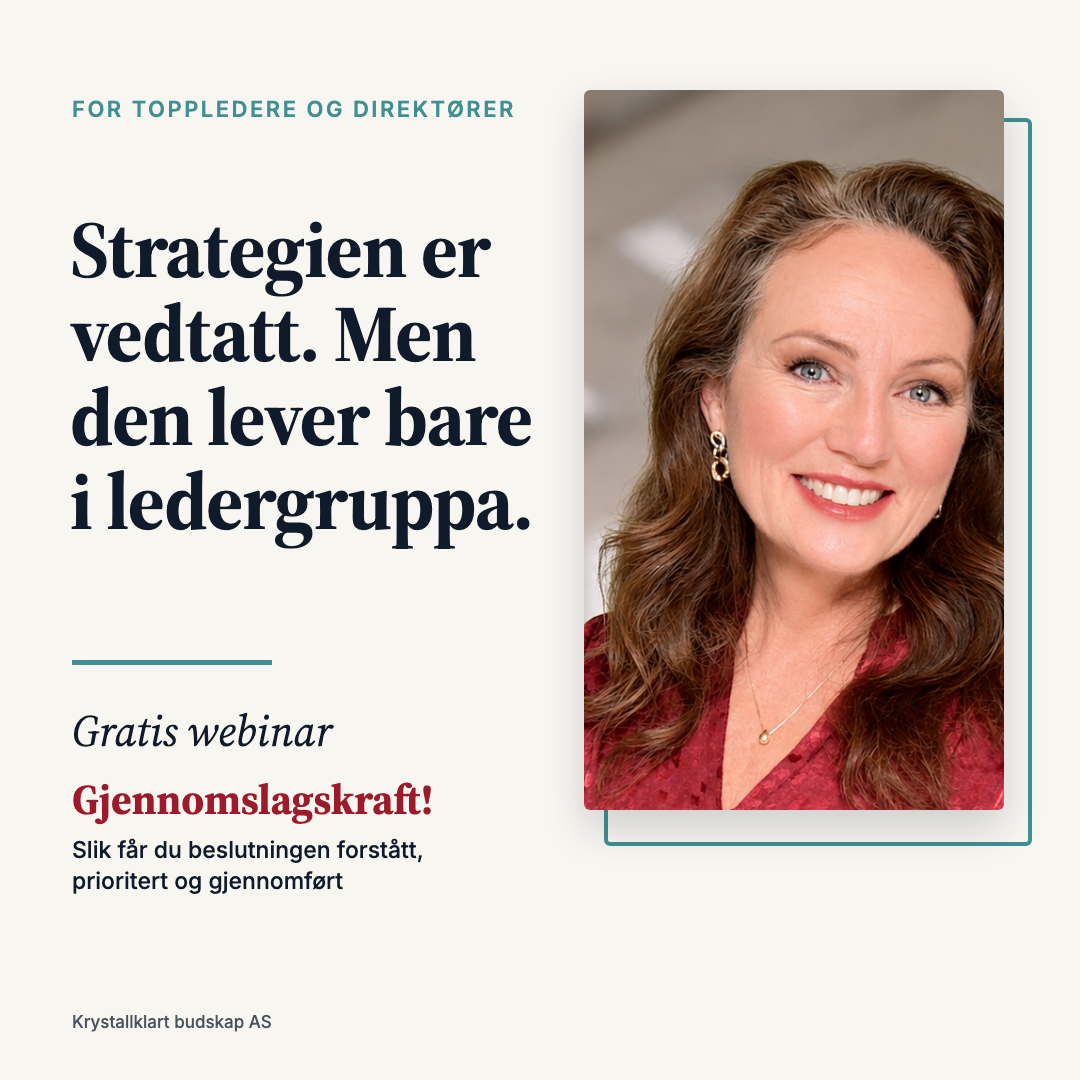
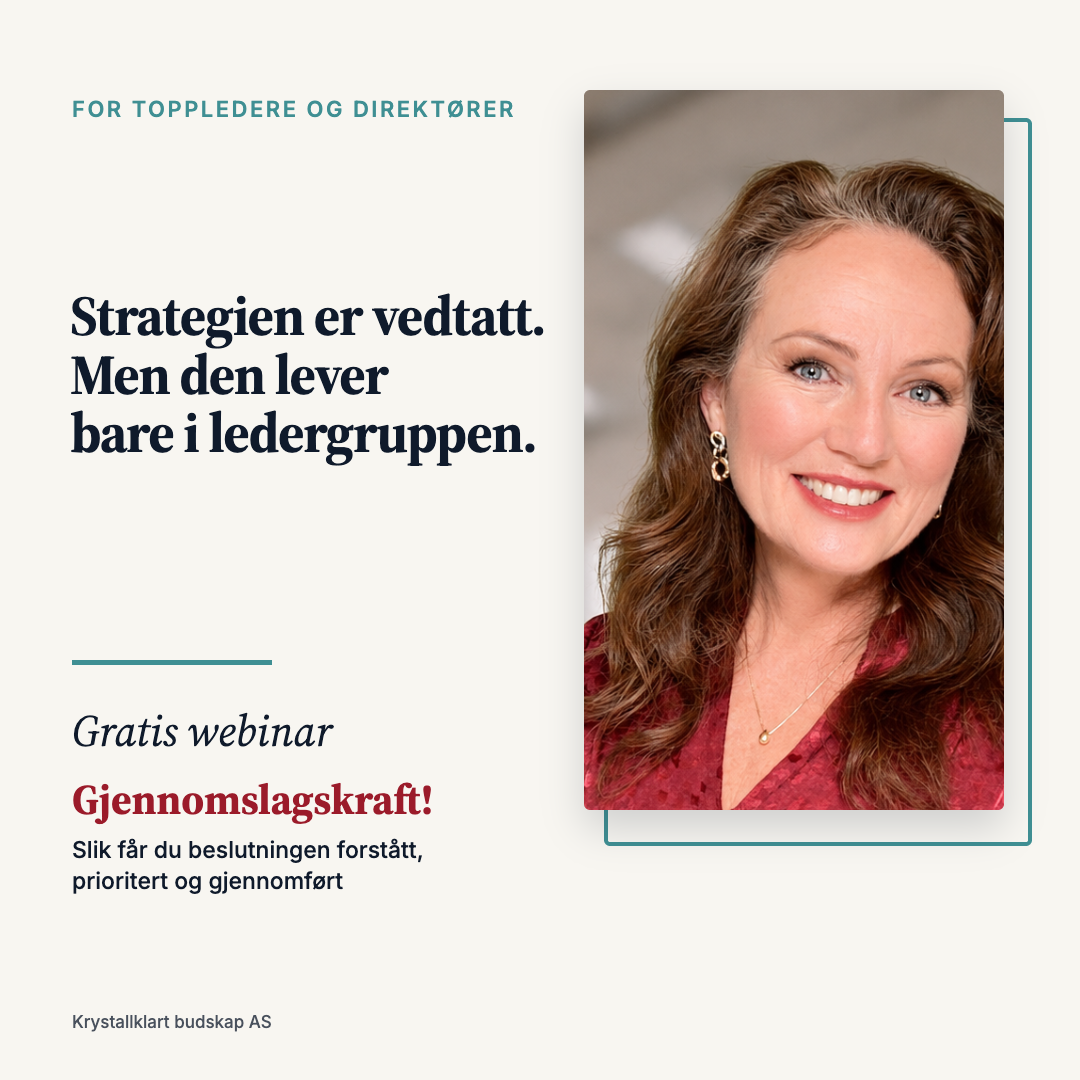
feat: apply Anne Karin feedback, Teams dialogue video, time angle and next-round targets

Changed region(s): [[0.0611, 0.1833, 0.4889, 0.5194]]

diff --git a/index.html b/index.html
@@ -28,7 +28,7 @@ hr{display:none}
 </style></head><body>
 <header><div class="wrap"><h1>Annonser – lederversjon</h1>
 <p>Anne Karin Nordskag · Gjennomslagskraft. Tekster, annonsebilder og målretting for neste runde, til godkjenning.</p>
-<nav><a href="#performance">Performance</a><a href="#s1">S1 Ledergruppa</a><a href="#s2">S2 Strategi</a><a href="#s3">S3 Gründer</a><a href="#maalretting">Målretting</a></nav></div></header>
+<nav><a href="#performance">Performance</a><a href="#s1">S1 Teams og tid</a><a href="#s2">S2 Strategi</a><a href="#s3">S3 Gründer</a><a href="#maalretting">Målretting</a></nav></div></header>
 <main><div class="wrap"><div class="perf"><h2 id="performance">Ads performance – May and September rounds</h2>
 <p>Source: "Anne Karin Scorecard" (one sheet per live webinar). All amounts in NOK; ad spend is excluding VAT. CPL is cost per lead. Application rate is applications divided by attendees. ROAS is revenue divided by ad spend, the same way the scorecard calculates ROI.</p>
 <h3>Overview</h3>
@@ -329,11 +329,53 @@ hr{display:none}
 <li><strong>Men cost the same as women.</strong> Men were only 21 % of leads, but their cost per lead (37 NOK) was the same as women's. Reaching more men does not have to raise the cost per lead.</li>
 </ul>
 <h3>What this means for the next round</h3>
-<ul>
-<li>Judge the ads by <strong>cost per application</strong>, not cost per lead. September's higher cost per lead paid off in better applicants.</li>
-<li>A reasonable target, based on September: cost per lead 40–55 NOK, application rate above 15 %, and cost per application under 600 NOK.</li>
-<li>The new leader ads build on the September ads (leader audience line, client names, required job title), so this is the strategy most likely to repeat September's results.</li>
-</ul></div><h1>Annonser – lederversjon (neste kampanje)</h1>
+<p><strong>1. Speak to leaders in the first seconds, not at the end.</strong> The cheapest ad ("#video") is a strong format, but its first 45 seconds speak to everyone. Every new ad names the audience in the first line or the first on-screen text ("For ledere med personalansvar…", "For toppledere og direktører…") and uses situations only leaders have: the management team, the board, a strategy that does not reach the organisation, a team that waits for the leader.</p>
+<p><strong>2. A new kind of video: the Teams dialogue (Anne Karin's idea).</strong> A short, slightly humorous Teams meeting where Anne Karin listens calmly to an increasingly frustrated senior leader. He thinks he has three different problems (the management team said no, an employee does not understand him, a key project is not prioritised), and communication turns out to be what they have in common. It replaces the old S1 video, which was too close to earlier ads. We will test a long version (about 90 seconds) against a short one (45–60 seconds).</p>
+<p><strong>3. Time as an angle.</strong> Leaders want more time. The new S1 image ad asks how much of the week goes to explaining things again, and promises shorter explanations and faster decisions. We do not use the term "rhetorical tools"; we say what they give.</p>
+<p><strong>4. Plain, spoken Norwegian.</strong> Anne Karin flagged parts of the last draft as "AI language". The rewrite avoids short dramatic fragments, the "It is not X. It is Y." pattern, and lists of three for effect, and uses <em>ledergruppen</em> throughout.</p>
+<p><strong>5. Judge each ad by leaders in the form, not by cost per lead.</strong> The registration form now asks for job title, and every ad link carries its ad ID (<code>utm_content</code>). That lets us see how many leaders each ad brings in.</p>
+<table>
+<thead>
+<tr>
+<th>Target for the next round</th>
+<th>Target</th>
+<th>Pause or rework if</th>
+</tr>
+</thead>
+<tbody>
+<tr>
+<td>Cost per lead (overall)</td>
+<td><strong>≤ 70 NOK</strong></td>
+<td>above 90 NOK</td>
+</tr>
+<tr>
+<td>Share of leads who choose a leader role in the form (Director/CEO, Entrepreneur/Owner, Middle manager)</td>
+<td><strong>≥ 35 %</strong></td>
+<td>below 25 %</td>
+</tr>
+<tr>
+<td><strong>Cost per leader lead</strong></td>
+<td><strong>≤ 200 NOK</strong></td>
+<td>above 260 NOK</td>
+</tr>
+<tr>
+<td>Cost per senior leader lead (Director/CEO or Entrepreneur/Owner, assumed about half of leaders)</td>
+<td>≤ 400 NOK</td>
+<td>above 520 NOK</td>
+</tr>
+<tr>
+<td>Application rate (applications / attendees)</td>
+<td>≥ 15 %</td>
+<td>below 10 %</td>
+</tr>
+<tr>
+<td>Cost per application</td>
+<td>≤ 800 NOK</td>
+<td>above 1 200 NOK</td>
+</tr>
+</tbody>
+</table>
+<p>With September's show-up and application rates, a cost per lead of 70 NOK gives about 770 NOK per application and about 6 200 NOK of ad spend per sale, a ROAS of about 4.8 at 29 900 NOK. Each ad gets about 1 000 NOK or 15 leads before we judge it. Ads below 25 % leaders or above 260 NOK per leader lead are paused.</p></div><h1>Annonser – lederversjon (neste kampanje)</h1>
 <p>Utkast til godkjenning innen fredag. Bygger på det som virket i august/september-annonsene ("Hvorfor får du ikke ja?" og "Hvorfor får du ikke folk med deg?"):</p>
 <ul>
 <li>Åpner med en konkret ledersituasjon</li>
@@ -343,7 +385,7 @@ hr{display:none}
 <h2>Faste byggeklosser (brukes i alle annonser)</h2>
 <p><strong>Målgruppelinje (første linje i caption):</strong></p>
 <blockquote>
-<p>For ledere med personalansvar som skal få gjennomslag i ledergruppa, i styret eller i eget team.</p>
+<p>For ledere med personalansvar som skal få gjennomslag i ledergruppen, i styret eller i eget team.</p>
 </blockquote>
 <p><strong>Kundelinje:</strong></p>
 <blockquote>
@@ -354,76 +396,112 @@ hr{display:none}
 <p>Webinaret er laget for deg som har lederansvar, og bygger på situasjonene du står i som leder.</p>
 </blockquote>
 <p><strong>CTA:</strong> Gratis webinar. → Meld deg på: [LINK]</p>
+<p><strong>Språkregler for denne runden</strong> (etter Anne Karins kommentarer):
+- Skriv slik folk snakker. Hele setninger, ikke korte, dramatiske biter som «Tallene er solide.» eller «Alle klappet.»
+- Unngå oppsettet «Det er ikke X. Det er Y.» og «Det handler ikke om X. Det handler om Y.».
+- Unngå å ramse opp tre ting på rad for effekt.
+- Skriv <em>ledergruppen</em>, ikke <em>ledergruppa</em> (og <em>uken</em>, <em>folkene</em>).
+- Ikke bruk ordet «retoriske verktøy». Si heller hva det gir: kortere møter, færre misforståelser, raskere beslutninger.</p>
 <hr />
-<h2 id="s1">S1 – Ledergruppe / beslutningsrom (hovedannonse)</h2>
-<h3>🎬 S1 · VIDEO – "Til neste kvartal"</h3>
-<p><strong>Tekst på skjerm (0–3 sek):</strong> For ledere som legger fram saker for ledergruppa eller styret.
-<strong>Tekst på skjerm (3–6 sek):</strong> Saken din ble utsatt. Igjen.</p>
-<p>Du går ut av ledermøtet. Og nok en gang ble saken din utsatt: "Vi tar det til neste kvartal." Mens en annen leder rundt bordet, som forberedte seg halvparten så mye, fikk ja.</p>
-<p>Det er frustrerende. Du hadde beslutningsunderlaget, tallene, analysen. Alt var solid. Men i det rommet landa det ikke.</p>
-<p>Det handler ikke om at du mangler fakta. I en ledergruppe nikker ingen til det tykkeste underlaget. De nikker til den som får dem til å kjenne konsekvensen av å ikke handle nå, og hvorfor det betyr noe for deres tall og deres ansvar.</p>
-<p>Og for hver sak som blir utsatt, venter teamet ditt også. På budsjettet, på beslutningen, på retningen.</p>
-<p>Jeg heter Anne Karin Nordskag. Jeg har trent ledere i Aker BP, TINE, KS, SpareBank 1 og Norges Bank, og NRK bruker meg som retorikkekspert. I det gratis webinaret mitt viser jeg deg hva som faktisk får beslutningstakere til å si ja.</p>
-<p>Dette er for deg som har lederansvar og jevnlig legger fram saker for ledergruppa eller styret. Er det deg, klikk på linken under og meld deg på.</p>
-<h3>🖼 S1 · ANNONSE – "Båsen ingen snakker om"</h3>
-<p><a href="images/s1-ledergruppa.png" target="_blank"><img class="ad" src="images/s1-ledergruppa.png" alt="Annonsebilde S1"></a></p>
-<p><strong>Tekst på bildet:</strong> FOR LEDERE I LEDERGRUPPA / Hvorfor blir saken din utsatt – igjen?</p>
+<h2 id="s1">S1 – Tre problemer, én fellesnevner (ny videotype) og tid</h2>
+<p>Anne Karin ønsket en annen type video denne gangen, og at én annonse skal handle om tid, som er det ledere har minst av. S1 har derfor fått en helt ny video (Teams-dialog) og et nytt bilde (tid). Den gamle S1-teksten om saken som blir utsatt, er tatt ut, fordi den lignet for mye på tidligere annonser.</p>
+<h3>🎬 S1 · VIDEO – «Tre problemer. Én fellesnevner.»</h3>
+<p>Anne Karins idé og manus, oversatt til muntlig norsk. Det eneste som er lagt til, er én replikk om tid (merket <em>ny</em>) og skjermteksten de første sekundene.</p>
+<p><strong>Oppsett:</strong> Et Teams-møte. Anne Karin vises i bildet. Lederen hører vi, men ser ikke: ruten hans har kameraet av og navnet «Direktør». Han blir mer og mer frustrert, hun er rolig, interessert og litt underholdt. Små pauser og ansiktsuttrykk gjør humoren, ikke overspill. Teksting hele veien, siden de fleste ser uten lyd.</p>
+<p><strong>Tekst på skjerm (0–3 sek):</strong> For ledere som ikke har tid til å si ting to ganger.</p>
+<p><strong>ANNE KARIN:</strong> Så ledergruppen sa nei til forslaget ditt?</p>
+<p><strong>LEDER</strong> <em>(frustrert)</em><strong>:</strong> Ja! Og det er ikke det eneste. Jeg har en medarbeider som rett og slett ikke skjønner hva jeg sier. Jeg forklarer og forklarer, men det går ikke inn!</p>
+<p><strong>ANNE KARIN:</strong> Så du opplever at budskapet ditt ikke når fram?</p>
+<p><strong>LEDER:</strong> Ja! Eller nei! Jeg vet ikke! Jeg vet bare at hun ikke gjør det hun skal. Og jeg har ikke tid til å si alt tre ganger! <em>(ny)</em></p>
+<p><strong>ANNE KARIN:</strong> Skjønner. Er det noe mer du er bekymret for?</p>
+<p><strong>LEDER</strong> <em>(puster tungt)</em><strong>:</strong> Ja, faktisk. Vi skal sette i gang et stort prosjekt for en kunde. Får ikke prosjektlederen med seg alle som har noe å si, og får teamet til å prioritere det, er vi ille ute. Da kan vi like gjerne gi konkurrentene tre års forsprang.</p>
+<p><strong>ANNE KARIN:</strong> Ok. Så du har tre utfordringer. En ledergruppe som ikke støtter forslaget ditt, en medarbeider som ikke forstår hva du mener, og en prosjektleder som må få folk til å prioritere et viktig prosjekt.</p>
+<p><strong>LEDER:</strong> Akkurat! Har du noen forslag? Jeg begynner å bli ganske desperat.</p>
+<p><strong>ANNE KARIN</strong> <em>(smiler)</em><strong>:</strong> Ja, faktisk. Kommunikasjon.</p>
+<p><strong>LEDER</strong> <em>(kort pause)</em><strong>:</strong> … Kommunikasjon?</p>
+<p><strong>ANNE KARIN:</strong> Ja. Det er kommunikasjon som får ledergruppen med på forslagene dine. Det er det som gjør at medarbeideren din skjønner hva du forventer. Og det er det som gjør at prosjektlederen din får folk engasjert nok til å prioritere prosjektet.</p>
+<p><strong>LEDER:</strong> Så du mener jeg burde jobbe med kommunikasjonen min?</p>
+<p><strong>ANNE KARIN</strong> <em>(smiler)</em><strong>:</strong> Det er kanskje ikke så dumt.</p>
+<p><strong>LEDER:</strong> Hvor begynner jeg?</p>
+<p><strong>ANNE KARIN:</strong> Meld deg på gratiswebinaret mitt, «Gjennomslagskraft». Der viser jeg hvordan du kommuniserer tydeligere, bygger tillit og får mer gjennomslag. Og ta gjerne med prosjektlederen din!</p>
+<p><strong>LEDER:</strong> Vet du hva? Det gjør jeg.</p>
+<p><strong>ANNE KARIN:</strong> Så bra! Vi ses på webinaret.</p>
+<p><strong>Sluttbilde (3 sek):</strong> Gjennomslagskraft – gratis webinar for ledere. Anne Karin Nordskag har trent ledere i Aker BP, TINE, KS, SpareBank 1 og Norges Bank.</p>
+<p><strong>To versjoner, som Anne Karin foreslo:</strong>
+- <strong>Lang (ca. 90 sek):</strong> hele manuset over.
+- <strong>Kort (45–60 sek):</strong> stryk «Så du opplever at budskapet ditt ikke når fram?» og svaret «Ja! Eller nei!…» (behold «Jeg har ikke tid til å si alt tre ganger!»), korte ned oppsummeringen til «Så du har tre utfordringer?», og gå rett fra «Kommunikasjon?» til «Hvor begynner jeg?». Svaret om hva kommunikasjon gjør, kan stå som tekst på skjerm i stedet for å bli sagt.</p>
 <p><strong>Caption:</strong>
-For ledere med personalansvar som skal få gjennomslag i ledergruppa eller styret.</p>
-<p>Du legger fram en gjennomarbeidet sak. Tallene er solide. Men kvartal etter kvartal blir den "tatt senere", eller den som høres tryggest ut, får ja. Ingen sier det høyt, men beslutningstakerne har plassert deg i en bås: "dyktig fagperson", ikke "en vi løfter opp".</p>
-<p>Det handler ikke om kompetansen din. Det handler om hvordan du tar en sak inn i et beslutningsrom. Det er en ferdighet, og den kan trenes.</p>
+For ledere med personalansvar.</p>
+<p>Har du noen gang hatt tre problemer på bordet samtidig og tenkt at de ikke har noe med hverandre å gjøre? Ledergruppen sa nei til forslaget ditt, en medarbeider gjør ikke det du har bedt om, og et viktig prosjekt får ikke den prioriteten det trenger.</p>
+<p>Ofte har de mer til felles enn man tror. I gratiswebinaret mitt «Gjennomslagskraft» viser jeg hvordan du kan kommunisere slik at folk forstår deg første gang, og hvordan du får både ledergruppen og teamet ditt med deg.</p>
+<p>Jeg heter Anne Karin Nordskag. Jeg har trent ledere i Aker BP, TINE, KS, SpareBank 1 og Norges Bank, og NRK bruker meg som retorikkekspert.</p>
+<p>Webinaret er laget for deg som har lederansvar, og bygger på situasjonene du står i som leder.</p>
+<p><strong>CTA:</strong> Gratis webinar. → Meld deg på: [LINK]</p>
+<h3>🖼 S1 · ANNONSE – «Forklare på nytt» (tid)</h3>
+<p><a href="images/s1-tid.png" target="_blank"><img class="ad" src="images/s1-tid.png" alt="Annonsebilde S1"></a></p>
+<p>Den nye annonsen om tid. Ledere vil ha mer tid, og mye tid går med til å forklare det samme flere ganger, eller til nye møter om saker som egentlig var avgjort.</p>
+<p><strong>Tekst på bildet:</strong> FOR LEDERE MED FULL KALENDER / Hvor mye av uken går med til å forklare ting på nytt?</p>
+<p><strong>Caption:</strong>
+For ledere med personalansvar som har mer å gjøre enn tid til.</p>
+<p>Tenk på møtene du har hatt den siste måneden om saker som egentlig var bestemt. Oppfølgingsmøter, avklaringer og e-poster for å forklare hva du mente. Mye av det kommer av at budskapet ikke var tydelig nok første gangen.</p>
+<p>De lederne som får raskest gjennomslag, er sjelden de som snakker mest. De vet hva de vil ha ja til før møtet begynner, og de sier det kort.</p>
+<p>I gratiswebinaret mitt «Gjennomslagskraft» får du noen enkle grep du kan bruke allerede i neste møte, slik at du bruker mindre tid på å forklare og får beslutningene raskere.</p>
 <p>Jeg heter Anne Karin Nordskag. Jeg har trent ledere i Aker BP, TINE, KS, SpareBank 1 og Norges Bank, og NRK bruker meg som retorikkekspert.</p>
 <p>Webinaret er laget for deg som har lederansvar, og bygger på situasjonene du står i som leder.</p>
 <p><strong>CTA:</strong> Gratis webinar. → Meld deg på: [LINK]</p>
 <hr />
-<h2 id="s2">S2 – Strategien som ikke når ut (ny vinkel)</h2>
-<p>Erstatter "Fra fagspesialist til leder", som traff nye ledere, ikke seniorledere. Ny vinkel: strategien er vedtatt i toppen, men endres ikke ute i organisasjonen. Dette er hverdagen til en direktør eller avdelingsdirektør, og handler om resultater, ikke om personlig utvikling.</p>
-<h3>🎬 S2 · VIDEO – "Tre måneder etter kick-off"</h3>
+<h2 id="s2">S2 – Strategien som ikke når ut</h2>
+<p>Treffer seniorledere: strategien er vedtatt i toppen, men endres ikke ute i organisasjonen. Tittelen og bildeteksten beholdes, slik Anne Karin ønsket. Avsnittene hun markerte som AI-språk, er skrevet om.</p>
+<h3>🎬 S2 · VIDEO – «Tre måneder etter kick-off»</h3>
 <p><strong>Tekst på skjerm (0–3 sek):</strong> For toppledere og direktører som skal få en strategi gjennomført.
 <strong>Tekst på skjerm (3–6 sek):</strong> Strategien ble vedtatt. Tre måneder senere jobber alle som før.</p>
-<p>Ledergruppa brukte et halvt år på strategien. Den ble vedtatt i styret. Du presenterte den på kick-off for to hundre ansatte. Alle klappet.</p>
-<p>Tre måneder senere sitter du i et møte med avdelingslederne dine. Og du hører at alt fortsatt gjøres som før. Ikke fordi noen er imot. De har bare ikke tatt den inn som sin egen.</p>
-<p>Det er ikke et strategiproblem. Strategien er god nok. Det er et formidlingsproblem. Mellom ledergruppa og resten av organisasjonen forsvinner budskapet, og det er der de fleste strategier stopper opp.</p>
-<p>Jeg heter Anne Karin Nordskag. Jeg har trent ledere i Aker BP, TINE, KS, SpareBank 1 og Norges Bank, og NRK bruker meg som retorikkekspert. I det gratis webinaret mitt viser jeg deg hvordan du formidler en retning slik at lederne under deg tar den videre.</p>
+<p>Dere brukte et halvt år på strategien i ledergruppen, og styret vedtok den. Du la den fram på kick-off for to hundre ansatte, og den ble godt mottatt.</p>
+<p>Så sitter du i et møte med avdelingslederne tre måneder senere, og skjønner at det meste fortsatt gjøres akkurat som før. Ingen har sagt imot. De har bare ikke sett hva strategien betyr for deres egen hverdag.</p>
+<p>Strategien er god nok. Men et sted mellom ledergruppen og resten av organisasjonen blir budskapet borte, og det er der mange strategier stopper opp.</p>
+<p>Jeg heter Anne Karin Nordskag. Jeg har trent ledere i Aker BP, TINE, KS, SpareBank 1 og Norges Bank, og NRK bruker meg som retorikkekspert. I gratiswebinaret mitt viser jeg hvordan du kan formidle en retning slik at lederne under deg tar den videre.</p>
 <p>Dette er for deg som leder ledere og har ansvar for at strategien faktisk blir gjennomført. Klikk på linken under og meld deg på.</p>
-<h3>🖼 S2 · ANNONSE – "Vedtatt er ikke gjennomført"</h3>
+<h3>🖼 S2 · ANNONSE – «Vedtatt er ikke gjennomført»</h3>
 <p><a href="images/s2-strategi.png" target="_blank"><img class="ad" src="images/s2-strategi.png" alt="Annonsebilde S2"></a></p>
-<p><strong>Tekst på bildet:</strong> FOR TOPPLEDERE OG DIREKTØRER / Strategien er vedtatt. Men den lever bare i ledergruppa.</p>
+<p><strong>Tekst på bildet:</strong> FOR TOPPLEDERE OG DIREKTØRER / Strategien er vedtatt. Men den lever bare i ledergruppen.</p>
 <p><strong>Caption:</strong>
 For toppledere og direktører som skal få en strategi gjennomført i hele organisasjonen.</p>
-<p>Dere har brukt måneder på strategien. Styret har sagt ja. Du har presentert den for hele organisasjonen. Og likevel: tre måneder senere prioriterer avdelingene som før. Ingen er imot. De har bare ikke tatt den inn som sin egen.</p>
-<p>Det skjer ikke fordi strategien er feil. Det skjer fordi budskapet blir borte mellom ledergruppa og dem som skal gjøre jobben. Å formidle en retning slik at andre ledere tar den videre, er en egen ferdighet, og den kan trenes.</p>
+<p>Dere har brukt måneder på strategien, styret har sagt ja, og du har presentert den for hele organisasjonen. Likevel prioriterer avdelingene omtrent som før tre måneder senere. Ingen er imot den, men de har ikke sett hva den betyr for dem.</p>
+<p>Det skjer ikke fordi strategien er feil. Det skjer fordi budskapet blir borte mellom ledergruppen og dem som skal gjøre jobben. Å formidle en retning slik at andre ledere tar den videre, er en egen ferdighet, og den kan trenes.</p>
 <p>Jeg heter Anne Karin Nordskag. Jeg har trent ledere i Aker BP, TINE, KS, SpareBank 1 og Norges Bank, og NRK bruker meg som retorikkekspert.</p>
 <p>Webinaret er laget for deg som har lederansvar, og bygger på situasjonene du står i som leder.</p>
 <p><strong>CTA:</strong> Gratis webinar. → Meld deg på: [LINK]</p>
 <hr />
 <h2 id="s3">S3 – Gründer i vekst</h2>
-<h3>🎬 S3 · VIDEO – "Flaskehalsen"</h3>
+<h3>🎬 S3 · VIDEO – «Flaskehalsen»</h3>
+<p>Anne Karin likte denne. Bare skrivemåten er rettet.</p>
 <p><strong>Tekst på skjerm (0–3 sek):</strong> For gründere og daglige ledere med egne ansatte.
 <strong>Tekst på skjerm (3–6 sek):</strong> Du bygde firmaet på faget ditt. Nå beveger ingenting seg uten deg.</p>
-<p>Du startet for deg selv fordi du er god på faget. Men firmaet vokser. Du har ansatt nummer fem, seks, sju, og plutselig går halve uka med til å forklare det samme om igjen.</p>
+<p>Du startet for deg selv fordi du er god på faget. Men firmaet vokser. Du har ansatt nummer fem, seks, sju, og plutselig går halve uken med til å forklare det samme om igjen.</p>
 <p>Alt stopper hos deg. Teamet venter på deg i stedet for å kjøre selv. Du selger faget til kundene helt fint, men å selge inn visjonen til dine egne folk, det sitter ikke. Så du blir flaskehalsen.</p>
 <p>Dette er ikke et personalproblem. Det handler om hvordan budskapet ditt forplanter seg. Når du formidler tydelig og overbevisende nok, kjører teamet i riktig retning uten at du står bak dem.</p>
-<p>Jeg heter Anne Karin Nordskag. Jeg har trent ledere i Aker BP, TINE, KS, SpareBank 1 og Norges Bank, og har siden 2011 hjulpet gründere med å få folka sine med seg.</p>
+<p>Jeg heter Anne Karin Nordskag. Jeg har trent ledere i Aker BP, TINE, KS, SpareBank 1 og Norges Bank, og har siden 2011 hjulpet gründere med å få folkene sine med seg.</p>
 <p>Leder du et firma i vekst og kjenner deg igjen? Bli med på det gratis webinaret mitt. Klikk på linken under.</p>
-<h3>🖼 S3 · ANNONSE – "Du ser veien. Folka dine vil stå stille."</h3>
+<h3>🖼 S3 · ANNONSE – «Du ser veien. Folkene dine vil stå stille.»</h3>
 <p><a href="images/s3-grunder.png" target="_blank"><img class="ad" src="images/s3-grunder.png" alt="Annonsebilde S3"></a></p>
-<p><strong>Tekst på bildet:</strong> FOR GRÜNDERE OG DAGLIGE LEDERE / Du ser hvor firmaet må. Folka dine vil stå stille.</p>
+<p>Tittelen beholdes. Teksten er skrevet om.</p>
+<p><strong>Tekst på bildet:</strong> FOR GRÜNDERE OG DAGLIGE LEDERE / Du ser hvor firmaet må. Folkene dine vil stå stille.</p>
 <p><strong>Caption:</strong>
 For gründere og daglige ledere med egne ansatte, i et firma som vokser.</p>
-<p>Firmaet vokser raskere enn du klarer å få folk med deg. Du forklarer hvorfor dere må endre, viser tallene, legger fram planen, og det føles fortsatt som å dytte en seig masse som helst vil stå i ro. Å presse fram endring får ingen til å følge på ordentlig. Som regel er det bare de beste som slutter. Nøkkelen er ikke flere tall, men litt psykologi som gjør at folka dine selv vil være med.</p>
-<p>Jeg heter Anne Karin Nordskag. Jeg har trent ledere i Aker BP, TINE, KS, SpareBank 1 og Norges Bank, og jeg kjører kurs i endringskommunikasjon.</p>
+<p>Firmaet vokser fortere enn du klarer å få folk med deg. Du forklarer hvorfor dere må gjøre ting annerledes, viser tallene og legger fram planen, men det føles fortsatt tungt å få noe til å flytte seg. Presser du for hardt, er det gjerne de beste som slutter.</p>
+<p>Flere tall hjelper sjelden. Det som virker bedre, er å forklare endringen slik at folkene dine ser hvorfor den betyr noe for dem, og selv har lyst til å være med.</p>
+<p>Jeg heter Anne Karin Nordskag. Jeg har trent ledere i Aker BP, TINE, KS, SpareBank 1 og Norges Bank, og jeg holder kurs i endringskommunikasjon.</p>
 <p>Webinaret er laget for deg som leder et firma med egne ansatte.</p>
 <p><strong>CTA:</strong> Gratis webinar. → Meld deg på: [LINK]</p>
 <hr />
-<h2>Endringer fra forrige versjon</h2>
+<h2>Endringer etter Anne Karins kommentarer</h2>
 <ul>
-<li>Målgruppen står i første linje (caption) og første skjermtekst (video).</li>
-<li>Kundelisten er byttet til den fra august-annonsene (Aker BP, TINE, KS, SpareBank 1, Norges Bank) og står i alle annonser.</li>
-<li>Hver annonse sier vennlig hvem webinaret er laget for: ledere med lederansvar.</li>
-<li>Konkrete ledersituasjoner og størrelse er lagt inn (S2: kick-off for to hundre ansatte, avdelingslederne; S3: "ansatt nummer fem, seks, sju").</li>
-<li>S2 har fått ny vinkel (strategi som ikke blir gjennomført) for å treffe seniorledere i stedet for nye ledere.</li>
-<li>CTA er endret fra "Se det nå" til "Meld deg på". Ingen dato eller klokkeslett i annonsene, så de kan brukes evergreen. Tidspunktet står på registreringssiden.</li>
+<li><strong>Ny videotype:</strong> S1-videoen er nå Anne Karins Teams-dialog «Tre problemer. Én fellesnevner.», i en lang (ca. 90 sek) og en kort versjon (45–60 sek). Den gamle S1-videoen er tatt ut fordi den lignet for mye på tidligere annonser.</li>
+<li><strong>Tid:</strong> S1-bildet handler nå om tid («Hvor mye av uken går med til å forklare ting på nytt?»). Vi bruker ikke ordet «retoriske verktøy», men sier hva det gir: mindre tid på å forklare og raskere beslutninger. Teams-videoen har også fått én replikk om tid.</li>
+<li><strong>«Båsen ingen snakker om»</strong> er tatt ut.</li>
+<li><strong>AI-språk:</strong> avsnittene Anne Karin markerte i S1, S2 og S3 er skrevet om til vanlig muntlig norsk. Se språkreglene øverst.</li>
+<li><strong>Skrivemåte:</strong> <em>ledergruppen</em> overalt (også på S2-bildet), og <em>uken</em>, <em>folkene</em>.</li>
+<li><strong>Beholdt uendret:</strong> S2-tittelen og -bildeteksten, avsnittet «Det skjer ikke fordi strategien er feil…», S3-videoen «Flaskehalsen» og S3-tittelen.</li>
+<li>Ingen dato eller klokkeslett i annonsene, så de kan brukes evergreen.</li>
 </ul>
 <h2>Registreringsskjema webinar 1</h2>
 <ul>
@@ -470,7 +548,7 @@ For gründere og daglige ledere med egne ansatte, i et firma som vokser.</p>
 </tbody>
 </table>
 <h3>Oppsett: to ad sets, samme annonser</h3>
-<p>Begge ad sets kjører <strong>de samme annonsene</strong>: de to august-annonsene, S1, S2 og S3. Det eneste som skiller dem er målrettingen. Da ser vi rent hvilken målretting som gir flest ledere per krone.</p>
+<p>Begge ad sets kjører <strong>de samme annonsene</strong>: de to august-annonsene, S1 (Teams-video og tid-bilde), S2 og S3. Det eneste som skiller dem er målrettingen. Da ser vi rent hvilken målretting som gir flest ledere per krone.</p>
 <p><strong>Målgruppe:</strong> seniorledere, og flere menn enn i dag.</p>
 <p><strong>Felles for begge:</strong>
 - <strong>Land:</strong> Norge. Plasseringstype: bor her + nylig her.

diff --git a/build.py b/build.py
@@ -2,7 +2,7 @@
 import re, markdown, pathlib
 SRC = pathlib.Path.home() / "anne-karin-kunsten-a-overbevise/ads/ads-leder-rewrite-nov-2026.md"
 md = SRC.read_text()
-imgs = {"S1": "s1-ledergruppa.png", "S2": "s2-strategi.png", "S3": "s3-grunder.png"}
+imgs = {"S1": "s1-tid.png", "S2": "s2-strategi.png", "S3": "s3-grunder.png"}
 for k, f in imgs.items():
     md = re.sub(rf"(### 🖼 {k} · ANNONSE[^\n]*\n)",
                 rf'\1\n<a href="images/{f}" target="_blank"><img class="ad" src="images/{f}" alt="Annonsebilde {k}"></a>\n\n', md)
@@ -10,7 +10,7 @@ body = markdown.markdown(md, extensions=["tables"])
 perf = (SRC.parent / "ads-performance-2026.md").read_text()
 perf_html = markdown.markdown(perf, extensions=["tables"]).replace("<h2>Ads performance", '<h2 id="performance">Ads performance', 1)
 body = f'<div class="perf">{perf_html}</div>' + body
-nav = "".join(f'<a href="#{i}">{t}</a>' for i, t in [("performance","Performance"),("s1","S1 Ledergruppa"),("s2","S2 Strategi"),("s3","S3 Gründer"),("maalretting","Målretting")])
+nav = "".join(f'<a href="#{i}">{t}</a>' for i, t in [("performance","Performance"),("s1","S1 Teams og tid"),("s2","S2 Strategi"),("s3","S3 Gründer"),("maalretting","Målretting")])
 body = body.replace("<h2>S1 –", '<h2 id="s1">S1 –').replace("<h2>S2 –", '<h2 id="s2">S2 –').replace("<h2>S3 –", '<h2 id="s3">S3 –').replace("<h2>Målretting", '<h2 id="maalretting">Målretting')
 page = f"""<!DOCTYPE html><html lang="no"><head><meta charset="utf-8"><meta name="viewport" content="width=device-width, initial-scale=1">
 <title>Annonser – lederversjon</title>
